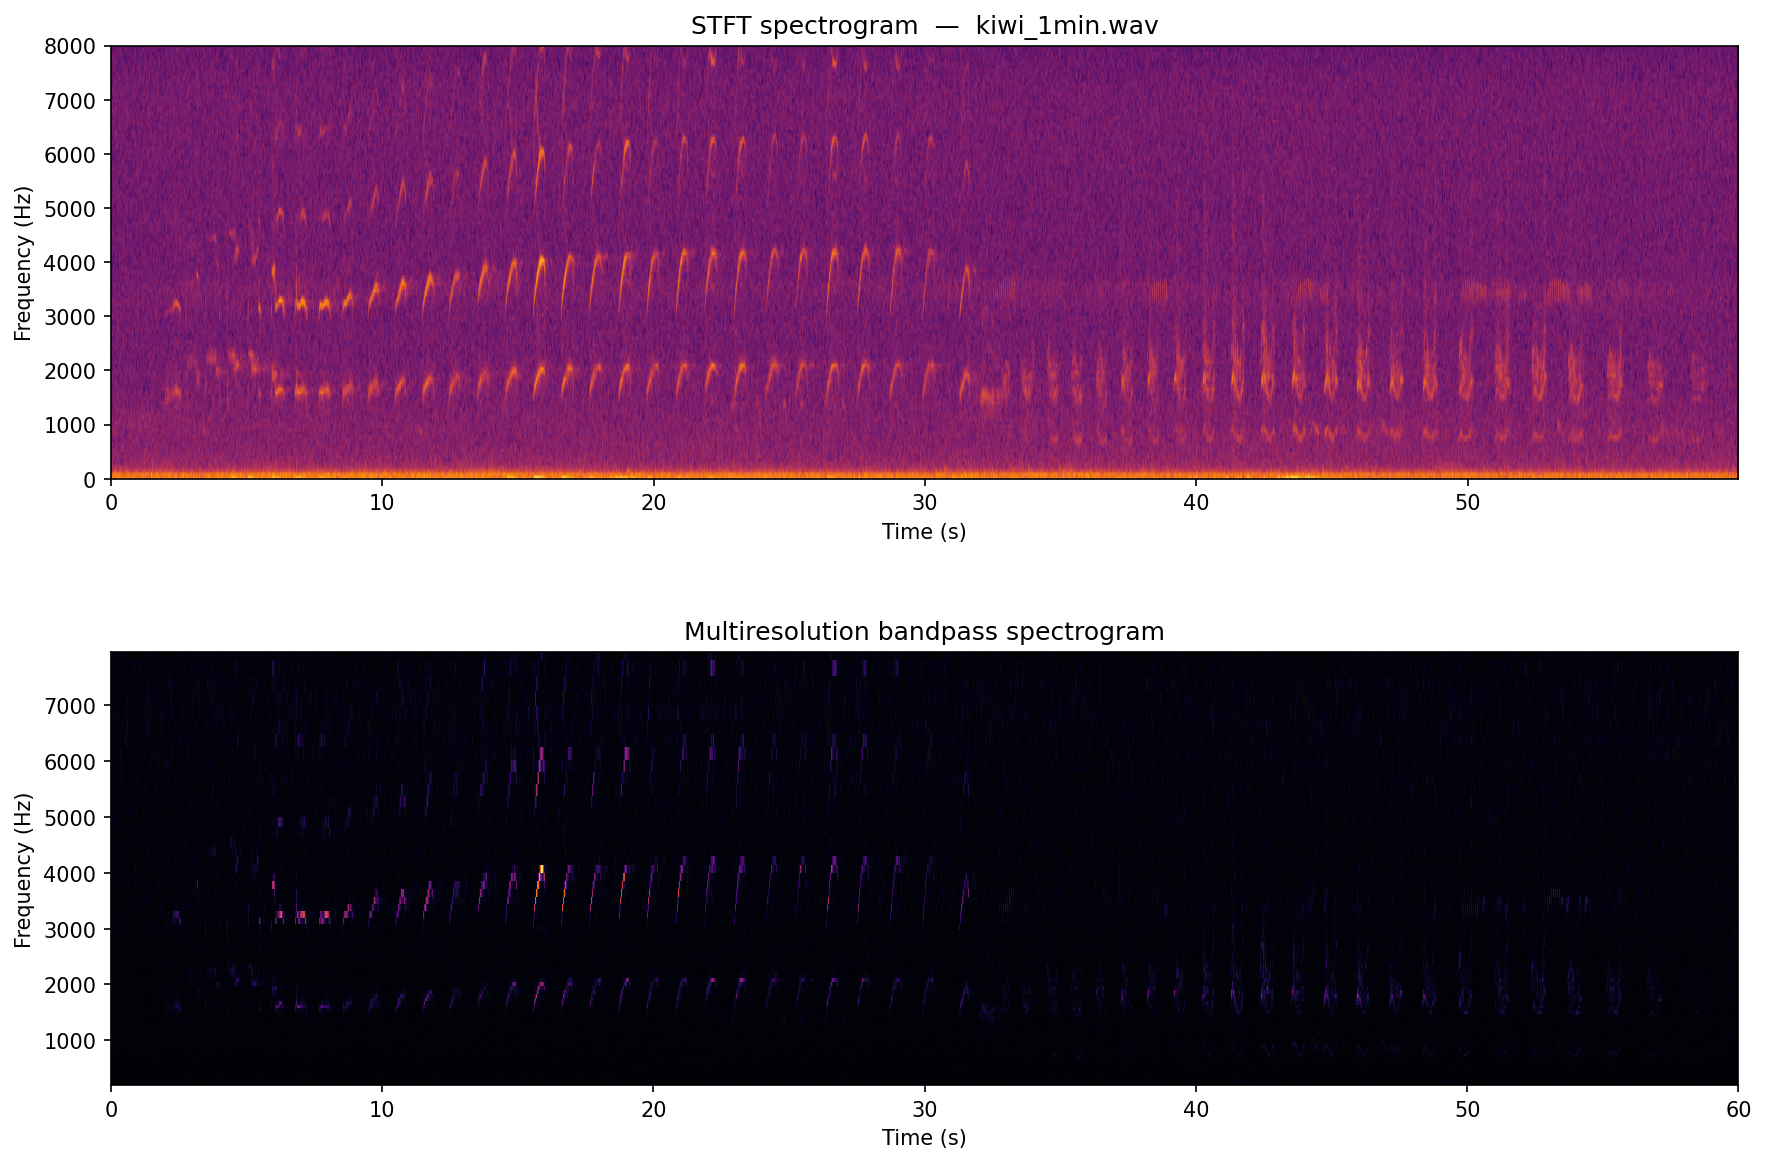
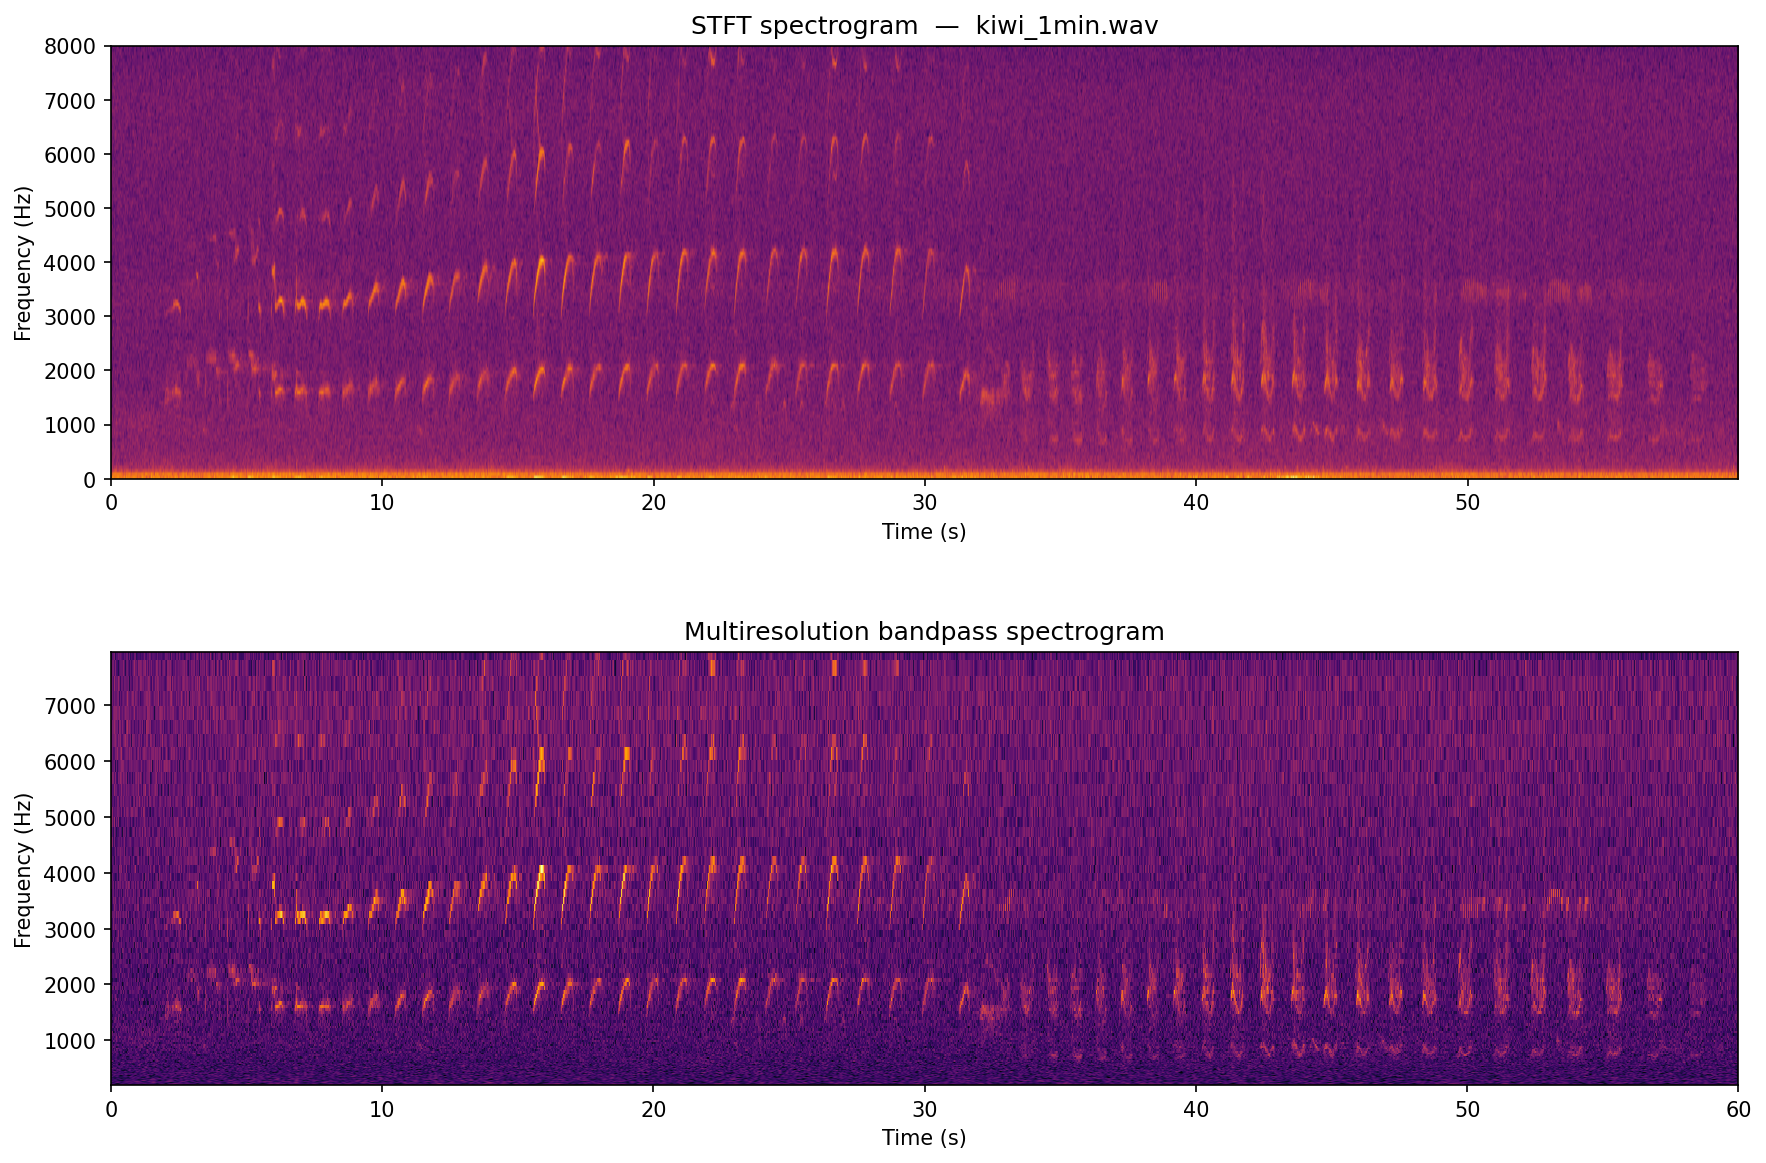
fix

diff --git a/scripts/analyze_all_results.py b/scripts/analyze_all_results.py
@@ -51,9 +51,17 @@ def load_from_result_json(results_dir):
                 'test1_acc': data.get('test1_acc', np.nan),
                 'test1_acc_labelled': data.get('test1_acc_labelled', np.nan),
                 'test1_acc_background': data.get('test1_acc_background', np.nan),
+                'test1_macro_precision': np.nan,
+                'test1_macro_recall': np.nan,
+                'test1_macro_f1': np.nan,
+                'test1_jaccard': np.nan,
                 'test2_acc': data.get('test2_acc', np.nan),
                 'test2_acc_labelled': data.get('test2_acc_labelled', np.nan),
                 'test2_acc_background': data.get('test2_acc_background', np.nan),
+                'test2_macro_precision': np.nan,
+                'test2_macro_recall': np.nan,
+                'test2_macro_f1': np.nan,
+                'test2_jaccard': np.nan,
                 'status': data.get('status', 'unknown'),
             })
             continue
@@ -97,12 +105,37 @@ def load_from_result_json(results_dir):
             'test1_acc': data.get('test1_acc', np.nan),
             'test1_acc_labelled': data.get('test1_acc_labelled', np.nan),
             'test1_acc_background': data.get('test1_acc_background', np.nan),
+            'test1_macro_precision': np.nan,
+            'test1_macro_recall': np.nan,
+            'test1_macro_f1': np.nan,
+            'test1_jaccard': np.nan,
             'test2_acc': data.get('test2_acc', np.nan),
             'test2_acc_labelled': data.get('test2_acc_labelled', np.nan),
             'test2_acc_background': data.get('test2_acc_background', np.nan),
+            'test2_macro_precision': np.nan,
+            'test2_macro_recall': np.nan,
+            'test2_macro_f1': np.nan,
+            'test2_jaccard': np.nan,
             'status': data.get('status', 'unknown'),
         })
     return results
+
+
+def _extract_report_metrics(report):
+    """Pull scalar summary metrics out of one *_multilabel_report.json dict."""
+    def pct(v):
+        return v * 100 if not (v is np.nan or v != v) else np.nan
+
+    macro = report.get('macro avg', {})
+    return {
+        'acc':        pct(report.get('exact_match_accuracy', np.nan)),
+        'acc_lab':    pct(report.get('exact_match_accuracy_labelled', np.nan)),
+        'acc_bg':     pct(report.get('exact_match_accuracy_background', np.nan)),
+        'macro_p':    macro.get('precision', np.nan),
+        'macro_r':    macro.get('recall', np.nan),
+        'macro_f1':   macro.get('f1-score', np.nan),
+        'jaccard':    report.get('jaccard_score', np.nan),
+    }
 
 
 def _read_reports_from_dir(report_dir, model, row):
@@ -110,29 +143,48 @@ def _read_reports_from_dir(report_dir, model, row):
     for report_file in sorted(report_dir.glob('*_multilabel_report.json')):
         with open(report_file) as f:
             report = json.load(f)
-        acc = report.get('exact_match_accuracy', np.nan)
-        if acc is not np.nan:
-            acc = acc * 100
-        acc_lab = report.get('exact_match_accuracy_labelled', np.nan)
-        if acc_lab is not np.nan:
-            acc_lab = acc_lab * 100
-        acc_bg = report.get('exact_match_accuracy_background', np.nan)
-        if acc_bg is not np.nan:
-            acc_bg = acc_bg * 100
         stem = report_file.stem.replace('_multilabel_report', '')
         if '_model' in stem:
             continue  # validation set, skip
         dataset_name = re.sub(rf'^{model}_test_', '', stem)
+        m = _extract_report_metrics(report)
         if row['test1_name'] is np.nan or row['test1_name'] == np.nan:
             row['test1_name'] = dataset_name
-            row['test1_acc'] = acc
-            row['test1_acc_labelled'] = acc_lab
-            row['test1_acc_background'] = acc_bg
+            row['test1_acc'] = m['acc']
+            row['test1_acc_labelled'] = m['acc_lab']
+            row['test1_acc_background'] = m['acc_bg']
+            row['test1_macro_precision'] = m['macro_p']
+            row['test1_macro_recall'] = m['macro_r']
+            row['test1_macro_f1'] = m['macro_f1']
+            row['test1_jaccard'] = m['jaccard']
         else:
             row['test2_name'] = dataset_name
-            row['test2_acc'] = acc
-            row['test2_acc_labelled'] = acc_lab
-            row['test2_acc_background'] = acc_bg
+            row['test2_acc'] = m['acc']
+            row['test2_acc_labelled'] = m['acc_lab']
+            row['test2_acc_background'] = m['acc_bg']
+            row['test2_macro_precision'] = m['macro_p']
+            row['test2_macro_recall'] = m['macro_r']
+            row['test2_macro_f1'] = m['macro_f1']
+            row['test2_jaccard'] = m['jaccard']
+
+
+def _empty_row(name, train_dataset, model, transform):
+    return {
+        'name': name,
+        'train_dataset': train_dataset,
+        'method': model,
+        'config': transform,
+        'category': model.upper(),
+        'seed': 0,
+        'test1_name': np.nan, 'test2_name': np.nan,
+        'test1_acc': np.nan, 'test1_acc_labelled': np.nan, 'test1_acc_background': np.nan,
+        'test1_macro_precision': np.nan, 'test1_macro_recall': np.nan,
+        'test1_macro_f1': np.nan, 'test1_jaccard': np.nan,
+        'test2_acc': np.nan, 'test2_acc_labelled': np.nan, 'test2_acc_background': np.nan,
+        'test2_macro_precision': np.nan, 'test2_macro_recall': np.nan,
+        'test2_macro_f1': np.nan, 'test2_jaccard': np.nan,
+        'status': 'unknown',
+    }
 
 
 def load_from_viz_dir(viz_dir):
@@ -147,23 +199,7 @@ def load_from_viz_dir(viz_dir):
         m = standard_pattern.match(exp_dir.name)
         if m:
             model, train_dataset, transform = m.groups()
-            row = {
-                'name': exp_dir.name,
-                'train_dataset': train_dataset,
-                'method': model,
-                'config': transform,
-                'category': model.upper(),
-                'seed': 0,
-                'test1_name': np.nan,
-                'test2_name': np.nan,
-                'test1_acc': np.nan,
-                'test1_acc_labelled': np.nan,
-                'test1_acc_background': np.nan,
-                'test2_acc': np.nan,
-                'test2_acc_labelled': np.nan,
-                'test2_acc_background': np.nan,
-                'status': 'unknown',
-            }
+            row = _empty_row(exp_dir.name, train_dataset, model, transform)
             _read_reports_from_dir(exp_dir, model, row)
             row['status'] = 'completed' if not (np.isnan(row['test1_acc']) and np.isnan(row['test2_acc'])) else 'incomplete'
             results.append(row)
@@ -172,27 +208,11 @@ def load_from_viz_dir(viz_dir):
         m = pseudo_pattern.match(exp_dir.name)
         if m:
             model, source_dataset, target_dataset, transform, pct_int = m.groups()
-            # Final results live in the phase3 subfolder
             final_dir = exp_dir / 'phase3_pseudo_target'
             if not final_dir.is_dir():
                 continue
-            row = {
-                'name': exp_dir.name,
-                'train_dataset': f'pseudo_{source_dataset}_to_{target_dataset}_pct{pct_int}',
-                'method': model,
-                'config': transform,
-                'category': f'{model.upper()} Pseudo',
-                'seed': 0,
-                'test1_name': np.nan,
-                'test2_name': np.nan,
-                'test1_acc': np.nan,
-                'test1_acc_labelled': np.nan,
-                'test1_acc_background': np.nan,
-                'test2_acc': np.nan,
-                'test2_acc_labelled': np.nan,
-                'test2_acc_background': np.nan,
-                'status': 'unknown',
-            }
+            row = _empty_row(exp_dir.name, f'pseudo_{source_dataset}_to_{target_dataset}_pct{pct_int}', model, transform)
+            row['category'] = f'{model.upper()} Pseudo'
             _read_reports_from_dir(final_dir, model, row)
             row['status'] = 'completed' if not (np.isnan(row['test1_acc']) and np.isnan(row['test2_acc'])) else 'incomplete'
             results.append(row)
@@ -211,15 +231,65 @@ def load_all_results(results_dir, viz_dir=None):
 
 def create_overview_table(df, output_dir):
     """Create CSV with ALL results"""
-    cols = ['name', 'train_dataset', 'method', 'config', 'category',
-            'test1_name', 'test1_acc', 'test1_acc_labelled', 'test1_acc_background',
-            'test2_name', 'test2_acc', 'test2_acc_labelled', 'test2_acc_background', 'status']
-    # Only include columns that actually exist (older result.json rows won't have _labelled)
+    cols = [
+        'name', 'train_dataset', 'method', 'config', 'category',
+        'test1_name', 'test1_acc', 'test1_acc_labelled', 'test1_acc_background',
+        'test1_macro_precision', 'test1_macro_recall', 'test1_macro_f1', 'test1_jaccard',
+        'test2_name', 'test2_acc', 'test2_acc_labelled', 'test2_acc_background',
+        'test2_macro_precision', 'test2_macro_recall', 'test2_macro_f1', 'test2_jaccard',
+        'status',
+    ]
     cols = [c for c in cols if c in df.columns]
     df_out = df[cols].copy()
     df_out = df_out.sort_values(['category', 'train_dataset', 'config'])
-    df_out.to_csv(output_dir / 'all_results.csv', index=False, float_format='%.2f')
+    df_out.to_csv(output_dir / 'all_results.csv', index=False, float_format='%.4f')
     print(f"✓ all_results.csv ({len(df_out)} experiments)")
+
+
+def create_per_class_table(viz_dir, output_dir):
+    """Create per_class_metrics.csv: one row per (experiment, test split, class)."""
+    standard_pattern = re.compile(r'^(ast|regnet)_on_(avianz|doc|merged)_(.+)$')
+    rows = []
+    for exp_dir in sorted(Path(viz_dir).iterdir()):
+        if not exp_dir.is_dir():
+            continue
+        m = standard_pattern.match(exp_dir.name)
+        if not m:
+            continue
+        model, train_dataset, _ = m.groups()
+        for report_file in sorted(exp_dir.glob('*_multilabel_report.json')):
+            stem = report_file.stem.replace('_multilabel_report', '')
+            if '_model' in stem:
+                continue
+            test_split = re.sub(rf'^{model}_test_', '', stem)
+            with open(report_file) as f:
+                report = json.load(f)
+            skip_keys = {'macro avg', 'micro avg', 'exact_match_accuracy',
+                         'exact_match_accuracy_labelled', 'exact_match_accuracy_background',
+                         'num_samples', 'num_labelled_samples', 'num_background_samples',
+                         'hamming_loss', 'jaccard_score'}
+            for class_name, metrics in report.items():
+                if class_name in skip_keys or not isinstance(metrics, dict):
+                    continue
+                rows.append({
+                    'experiment': exp_dir.name,
+                    'train_dataset': train_dataset,
+                    'test_split': test_split,
+                    'class': class_name,
+                    'tp': metrics.get('tp', np.nan),
+                    'fp': metrics.get('fp', np.nan),
+                    'tn': metrics.get('tn', np.nan),
+                    'fn': metrics.get('fn', np.nan),
+                    'precision': metrics.get('precision', np.nan),
+                    'recall': metrics.get('recall', np.nan),
+                    'f1': metrics.get('f1-score', np.nan),
+                    'support': metrics.get('support', np.nan),
+                })
+    if rows:
+        pd.DataFrame(rows).to_csv(output_dir / 'per_class_metrics.csv', index=False, float_format='%.4f')
+        print(f"✓ per_class_metrics.csv ({len(rows)} rows)")
+    else:
+        print("  (no per-class data found — re-run experiments to populate tp/fp/tn/fn)")
 
 
 def plot_by_category(df, output_dir):
@@ -460,6 +530,7 @@ def main():
     
     print("Creating outputs...")
     create_overview_table(df, output_dir)
+    create_per_class_table(results_dir, output_dir)
     plot_by_category(df, output_dir)
     create_summary_by_category(df, output_dir)
     create_report(df, output_dir)

diff --git a/src/evaluation/evaluation_utils.py b/src/evaluation/evaluation_utils.py
@@ -96,14 +96,21 @@ class EvaluationManager:
         per_class_accuracy = np.array(per_class_accuracy)
         
         # Create classification report
+        cm_multi = multilabel_confusion_matrix(y_true, y_pred)
+
         class_report = {}
         for i, class_name in enumerate(self.class_names):
+            tn, fp, fn, tp = cm_multi[i].ravel()
             class_report[class_name] = {
                 'precision': float(precision[i]),
                 'recall': float(recall[i]),
                 'f1-score': float(f1[i]),
                 'accuracy': float(per_class_accuracy[i]),
-                'support': int(support[i])
+                'support': int(support[i]),
+                'tp': int(tp),
+                'fp': int(fp),
+                'tn': int(tn),
+                'fn': int(fn),
             }
         
         # Add macro and micro averages
@@ -125,9 +132,6 @@ class EvaluationManager:
             'accuracy': float(np.mean(y_true == y_pred)),  # Overall bit-wise accuracy
             'support': int(np.sum(support))
         }
-        
-        # Get per-class confusion matrices
-        cm_multi = multilabel_confusion_matrix(y_true, y_pred)
         
         # Save multi-label specific metrics
         self._save_multilabel_metrics(y_true, y_pred, y_pred_probs, class_report, name, cm_multi)

diff --git a/bandpass_explore.py b/bandpass_explore.py
@@ -13,7 +13,7 @@ AUDIO_FILE   = "Sound Files/kiwi_1min.wav"
 WINDOW_WIDTH = 512
 INCR         = 128
 
-N_BANDS   = 100      # total number of bandpass bands
+N_BANDS   = 300      # total number of bandpass bands
 FREQ_LOW  = 200     # Hz — lower edge of lowest band
 FREQ_HIGH = None    # Hz — upper edge of highest band; None = fs/2 - 50
 # ─────────────────────────────────────────────────────────────────────────────
@@ -79,7 +79,9 @@ def build_bandpass_spectrogram(audio, fs, bands):
         rows.append(np.interp(t_common, t_band, env_ds))
 
     arr = np.array(rows, dtype=np.float32)
-    return np.log1p(arr / (arr.max() + 1e-9)), t_common
+    arr = np.log1p(arr)                                    # log-compress raw amplitudes
+    arr = (arr - arr.min()) / (arr.max() - arr.min() + 1e-9)   # normalise to [0, 1]
+    return arr, t_common
 
 
 def main():

diff --git a/train.py b/train.py
@@ -70,6 +70,12 @@ Examples:
                        help="Apply temporal median filtering (works independently)")
     parser.add_argument('--no-background', action='store_true', dest='no_background',
                        help="Ignore all-zero (background/no-bird) training samples")
+    parser.add_argument('--use-asl', action='store_true', dest='use_asl',
+                       help="Use Asymmetric Loss (ASL) instead of BCE — clips easy-negative gradients, "
+                            "reducing gradient suppression from all-background samples")
+    parser.add_argument('--class-weights', action='store_true', dest='class_weights',
+                       help="Weight per-class loss by inverse frequency to prevent rare species from "
+                            "being overwhelmed by the majority-class gradient")
     parser.add_argument('--spec-transform', type=str, default='Log', choices=['Log', 'PCEN', 'Box-Cox', 'None'],
                        help="Spectrogram transformation (default: Log)")
     
